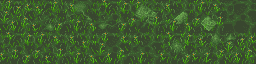
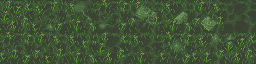
Cheaper randarts; Pain bonus lvl2+; lower saturation grass

diff --git a/libs/draw-lib/src/display.cpp b/libs/draw-lib/src/display.cpp
@@ -60,7 +60,7 @@ static void gl_sdl_initialize(const char* window_name, int w, int h, bool fullsc
        // );
       MAIN_WINDOW = SDL_CreateWindow(
         window_name, SDL_WINDOWPOS_UNDEFINED, SDL_WINDOWPOS_UNDEFINED, w, h, 
-        SDL_WINDOW_OPENGL | (fullscreen ? SDL_WINDOW_FULLSCREEN_DESKTOP : 0)
+        SDL_WINDOW_OPENGL | (fullscreen ? SDL_WINDOW_FULLSCREEN /*_DESKTOP*/ : 0)
       );
       // Create an OpenGL context associated with the window.
       SDL_GL_CreateContext(MAIN_WINDOW);
